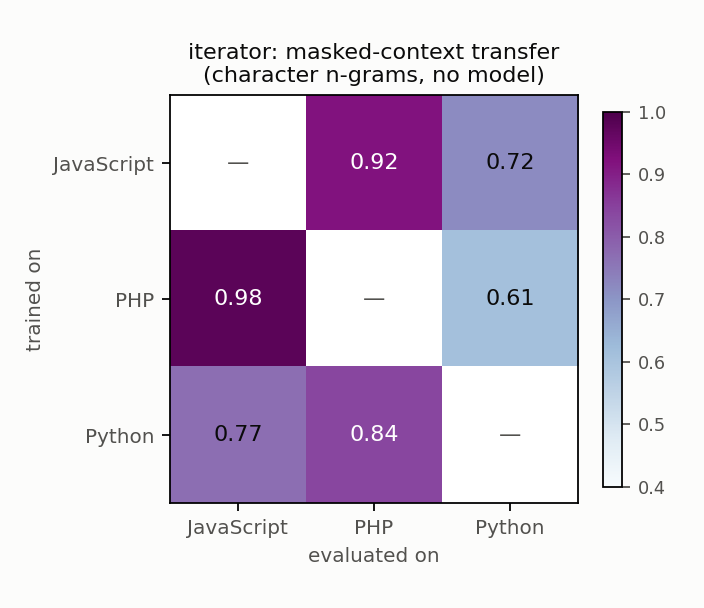
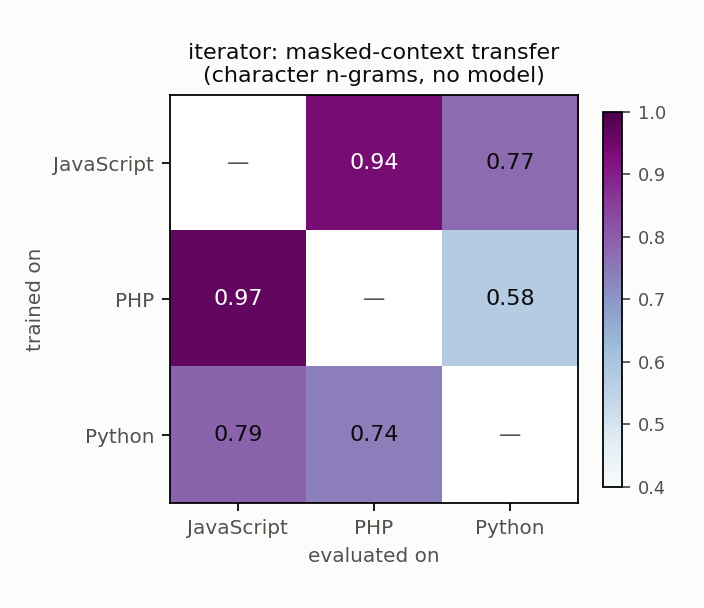
Cross-lingual probe transfer: qwen25coder15b

diff --git a/results/lp4fm/SUMMARY.md b/results/lp4fm/SUMMARY.md
@@ -11,33 +11,33 @@ across languages.
 
 Read every cell against its own `majority` and `shuffled` controls.
 
-**ρ** is the macro-F1 movement from ONE test occurrence of the smallest class changing its prediction. Measured, not assumed: it spans **0.0001–0.0017** across these cells. The smallest effect in the table still clears the largest ρ by 88×, because these folds hold thousands of occurrences rather than the 2,000-capped samples of the within-language runs. Resolution is not the binding constraint on this experiment — worth stating precisely because it *was* the binding constraint on the probing work, where ten of twelve runs fell below their own ρ.
+**ρ** is the macro-F1 movement from ONE test occurrence of the smallest class changing its prediction. Measured, not assumed: it spans **0.0003–0.0020** across these cells. The smallest effect in the table still clears the largest ρ by 57×, because these folds hold thousands of occurrences rather than the 2,000-capped samples of the within-language runs. Resolution is not the binding constraint on this experiment — worth stating precisely because it *was* the binding constraint on the probing work, where ten of twelve runs fell below their own ρ.
 
 | role | source → target | n test | masked best | name only | probe | majority | shuffled | ρ |
 |---|---|---|---|---|---|---|---|---|
-| accumulator | JavaScript → PHP | 4817 | **0.952** | 0.827 | not run | 0.425 | 0.476 | 0.0003 |
-| accumulator | JavaScript → Python | 15698 | **0.853** | 0.851 | not run | 0.369 | 0.508 | 0.0001 |
-| accumulator | PHP → JavaScript | 4879 | **0.953** | 0.837 | not run | 0.424 | 0.497 | 0.0003 |
-| accumulator | PHP → Python | 4316 | **0.841** | 0.813 | not run | 0.375 | 0.532 | 0.0002 |
-| accumulator | Python → JavaScript | 13019 | **0.809** | 0.844 | not run | 0.420 | 0.491 | 0.0001 |
-| accumulator | Python → PHP | 3530 | **0.865** | 0.802 | not run | 0.417 | 0.516 | 0.0003 |
-| index_key | JavaScript → PHP | 4817 | **0.948** | 0.763 | not run | 0.456 | 0.470 | 0.0004 |
-| index_key | JavaScript → Python | 15698 | **0.897** | 0.756 | not run | 0.412 | 0.503 | 0.0001 |
-| index_key | PHP → JavaScript | 4879 | **0.950** | 0.773 | not run | 0.455 | 0.469 | 0.0004 |
-| index_key | PHP → Python | 4316 | **0.861** | 0.726 | not run | 0.419 | 0.498 | 0.0003 |
-| index_key | Python → JavaScript | 13019 | **0.911** | 0.797 | not run | 0.441 | 0.486 | 0.0001 |
-| index_key | Python → PHP | 3530 | **0.896** | 0.760 | not run | 0.439 | 0.486 | 0.0004 |
-| iterator | JavaScript → PHP | 4817 | **0.920** | 0.788 | not run | 0.480 | 0.453 | 0.0007 |
-| iterator | JavaScript → Python | 15698 | **0.717** | 0.689 | not run | 0.475 | 0.497 | 0.0002 |
-| iterator | PHP → JavaScript | 4879 | **0.979** | 0.837 | not run | 0.480 | 0.470 | 0.0007 |
-| iterator | PHP → Python | 4316 | **0.609** | 0.729 | not run | 0.473 | 0.459 | 0.0006 |
-| iterator | Python → JavaScript | 13019 | **0.770** | 0.647 | not run | 0.491 | 0.447 | 0.0005 |
-| iterator | Python → PHP | 3530 | **0.839** | 0.712 | not run | 0.489 | 0.472 | 0.0017 |
+| accumulator | JavaScript → PHP | 1976 | **0.951** | 0.897 | 0.904 | 0.361 | 0.470 | 0.0005 |
+| accumulator | JavaScript → Python | 3341 | **0.813** | 0.873 | 0.875 | 0.415 | 0.473 | 0.0004 |
+| accumulator | PHP → JavaScript | 1903 | **0.954** | 0.897 | 0.918 | 0.372 | 0.490 | 0.0005 |
+| accumulator | PHP → Python | 1377 | **0.782** | 0.824 | 0.833 | 0.276 | 0.439 | 0.0008 |
+| accumulator | Python → JavaScript | 3294 | **0.785** | 0.874 | 0.918 | 0.370 | 0.504 | 0.0003 |
+| accumulator | Python → PHP | 1478 | **0.736** | 0.845 | 0.874 | 0.271 | 0.466 | 0.0007 |
+| index_key | JavaScript → PHP | 1976 | **0.940** | 0.834 | 0.897 | 0.384 | 0.478 | 0.0005 |
+| index_key | JavaScript → Python | 3341 | **0.859** | 0.787 | 0.883 | 0.330 | 0.497 | 0.0003 |
+| index_key | PHP → JavaScript | 1903 | **0.964** | 0.838 | 0.880 | 0.376 | 0.516 | 0.0005 |
+| index_key | PHP → Python | 1377 | **0.839** | 0.782 | 0.854 | 0.387 | 0.515 | 0.0008 |
+| index_key | Python → JavaScript | 3294 | **0.871** | 0.822 | 0.915 | 0.314 | 0.470 | 0.0003 |
+| index_key | Python → PHP | 1478 | **0.858** | 0.838 | 0.874 | 0.419 | 0.459 | 0.0008 |
+| iterator | JavaScript → PHP | 1976 | **0.937** | 0.862 | 0.906 | 0.448 | 0.488 | 0.0008 |
+| iterator | JavaScript → Python | 3341 | **0.774** | 0.733 | 0.939 | 0.444 | 0.472 | 0.0005 |
+| iterator | PHP → JavaScript | 1903 | **0.965** | 0.873 | 0.851 | 0.446 | 0.478 | 0.0008 |
+| iterator | PHP → Python | 1377 | **0.576** | 0.788 | 0.865 | 0.428 | 0.462 | 0.0010 |
+| iterator | Python → JavaScript | 3294 | **0.790** | 0.769 | 0.918 | 0.466 | 0.484 | 0.0007 |
+| iterator | Python → PHP | 1478 | **0.741** | 0.788 | 0.902 | 0.475 | 0.438 | 0.0020 |
 
 ## What this says
 
-- Masked-context transfer reaches **0.979** (iterator, PHP → JavaScript) with no model and the variable name removed.
-- The name alone is the strongest feature in only **2/18** cells, so this is not simply shared identifier conventions.
+- Masked-context transfer reaches **0.965** (iterator, PHP → JavaScript) with no model and the variable name removed.
+- The name alone is the strongest feature in only **6/18** cells, so this is not simply shared identifier conventions.
 - Majority and shuffled-label controls sit near chance everywhere, so the
   transfer is real rather than an artifact of class imbalance.
 - **Transfer is asymmetric**: compare the two directions of any pair in the
@@ -49,25 +49,3 @@ Any probe result on this task has to be read against these numbers, not
 against majority chance.
 
 Figures: `heatmap_accumulator.png`, `heatmap_index_key.png`, `heatmap_iterator.png`
-
-## Does transfer survive renaming the source?
-
-Python is renamed before training — C1 `v1,v2,…`, C2 `a,b,c,…`,
-C4 random nouns — and the target language is left untouched. The
-variable name is masked in the features either way, so what changes
-is the SURROUNDING identifiers. A signal that survives is carried by
-structure (operators, syntax); one that collapses was lexical.
-
-Each cell is `masked best (its own shuffled control)`. The
-conditions do not share a control — renaming changes the corpus, so
-C1, C2 and C4 each get their own — and pairing a renamed value with
-the original's control, or vice versa, would misstate the headroom.
-
-| role | target | original | C1 | C2 | C4 |
-|---|---|---|---|---|---|
-| accumulator | JavaScript | 0.809 (0.491) | 0.790 (0.568) | 0.789 (0.565) | 0.793 (0.562) |
-| accumulator | PHP | 0.865 (0.516) | 0.768 (0.462) | 0.786 (0.463) | 0.817 (0.455) |
-| index_key | JavaScript | 0.911 (0.486) | 0.845 (0.511) | 0.871 (0.529) | 0.878 (0.503) |
-| index_key | PHP | 0.896 (0.486) | 0.880 (0.479) | 0.879 (0.492) | 0.879 (0.477) |
-| iterator | JavaScript | 0.770 (0.447) | 0.662 (0.478) | 0.555 (0.475) | 0.624 (0.465) |
-| iterator | PHP | 0.839 (0.472) | 0.650 (0.420) | 0.538 (0.403) | 0.630 (0.401) |
